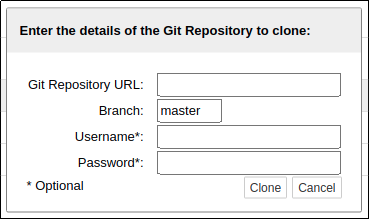
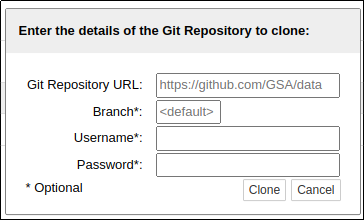
Switch to using the default branch, and improve the form slightly

diff --git a/plusGitRepo/main/index.js b/plusGitRepo/main/index.js
@@ -88,19 +88,20 @@ define([
                     $("<input>").attr("type", "text")
                                 .attr("name", "plusGitRepoUrl")
                                 .attr("id", "plusGitRepoUrl")
+                                .attr("placeholder", "https://github.com/GSA/data")
                   )
               )
               .append(
                 $("<p>")
                   .append(
                     $("<label>").attr("for", "plusGitRepoBranch")
-                    .text("Branch: ")
+                    .text("Branch*: ")
                   )
                   .append(
                     $("<input>").attr("type", "text")
                                 .attr("name", "plusGitRepoBranch")
                                 .attr("id", "plusGitRepoBranch")
-                                .attr("value", "master")
+                                .attr("placeholder", "<default>")
                   )
               )
               .append(
@@ -140,13 +141,13 @@ define([
                             .on("click", function(e) {
                               var plusGitRepoUrl =
                                 $( "input#plusGitRepoUrl" ).val();
-                              var plusGitRepoBranch =
+                              var plusGitRepoBranch = 
                                 $( "input#plusGitRepoBranch" ).val();
                               var plusGitRepoUsername = 
                                 $( "input#plusGitRepoUsername" ).val();
                               var plusGitRepoPassword =
                                 $( "input#plusGitRepoPassword" ).val();
-                              if (plusGitRepoUrl && plusGitRepoBranch ) {
+                              if (plusGitRepoUrl ) {
                                 if (plusGitRepoUrl.indexOf("http") === 0)
                                 {
                                   // construct the url that nbgitpuller needs
@@ -157,8 +158,10 @@ define([
                                       + ":" + plusGitRepoPassword  + "@" + rest
                                   }
                                   var pullReqUrl = thisUrl.slice(0, thisUrl.indexOf("tree"))
-                                      + "git-pull?repo=" + plusGitRepoUrl + "&branch="
-                                      + plusGitRepoBranch;
+                                      + "git-pull?repo=" + plusGitRepoUrl;
+                                  if ( plusGitRepoBranch ) {
+                                    pullReqUrl += "&branch=" + plusGitRepoBranch;
+                                  }
                                   e.preventDefault();
                                   window.location.href = pullReqUrl;
                                 }

diff --git a/README.md b/README.md
@@ -27,12 +27,18 @@ Clicking on the `+GitRepo` button opens a popup to enter the git URL (and branch
 
 ![Screenshot of the plusGitRepo imput window](modal.png)
 
-Note that the default branch is `master`. From mid-2020, GitHub switched to using `main` as the default name for the central branch in repositories.
+Note that the URL is the web address of the repository, the one you would use to look at the data online, not the git address: `https://github.com/GSA/data` not `https://github.com/GSA/data.git`
 
-If you need to access an _authentincated_ repository, then you can supply an appropriate username & password. These inputs are
- _optional_, and only needed to access _authentincated_ repositories
+`+GitRepo` will clone the default branch.
 
 Clicking `Clone` will download the reposiory, and change you into that directory.
+
+### Optional parameters
+
+ From mid-2020, GitHub switched from `master` to using `main` as the default name for the central branch in repositories. If you need a specific branch, you can specify it.
+
+If you need to access an _authentincated_ repository, then you can supply an appropriate username & password.
+
 
 ### Notes
 
